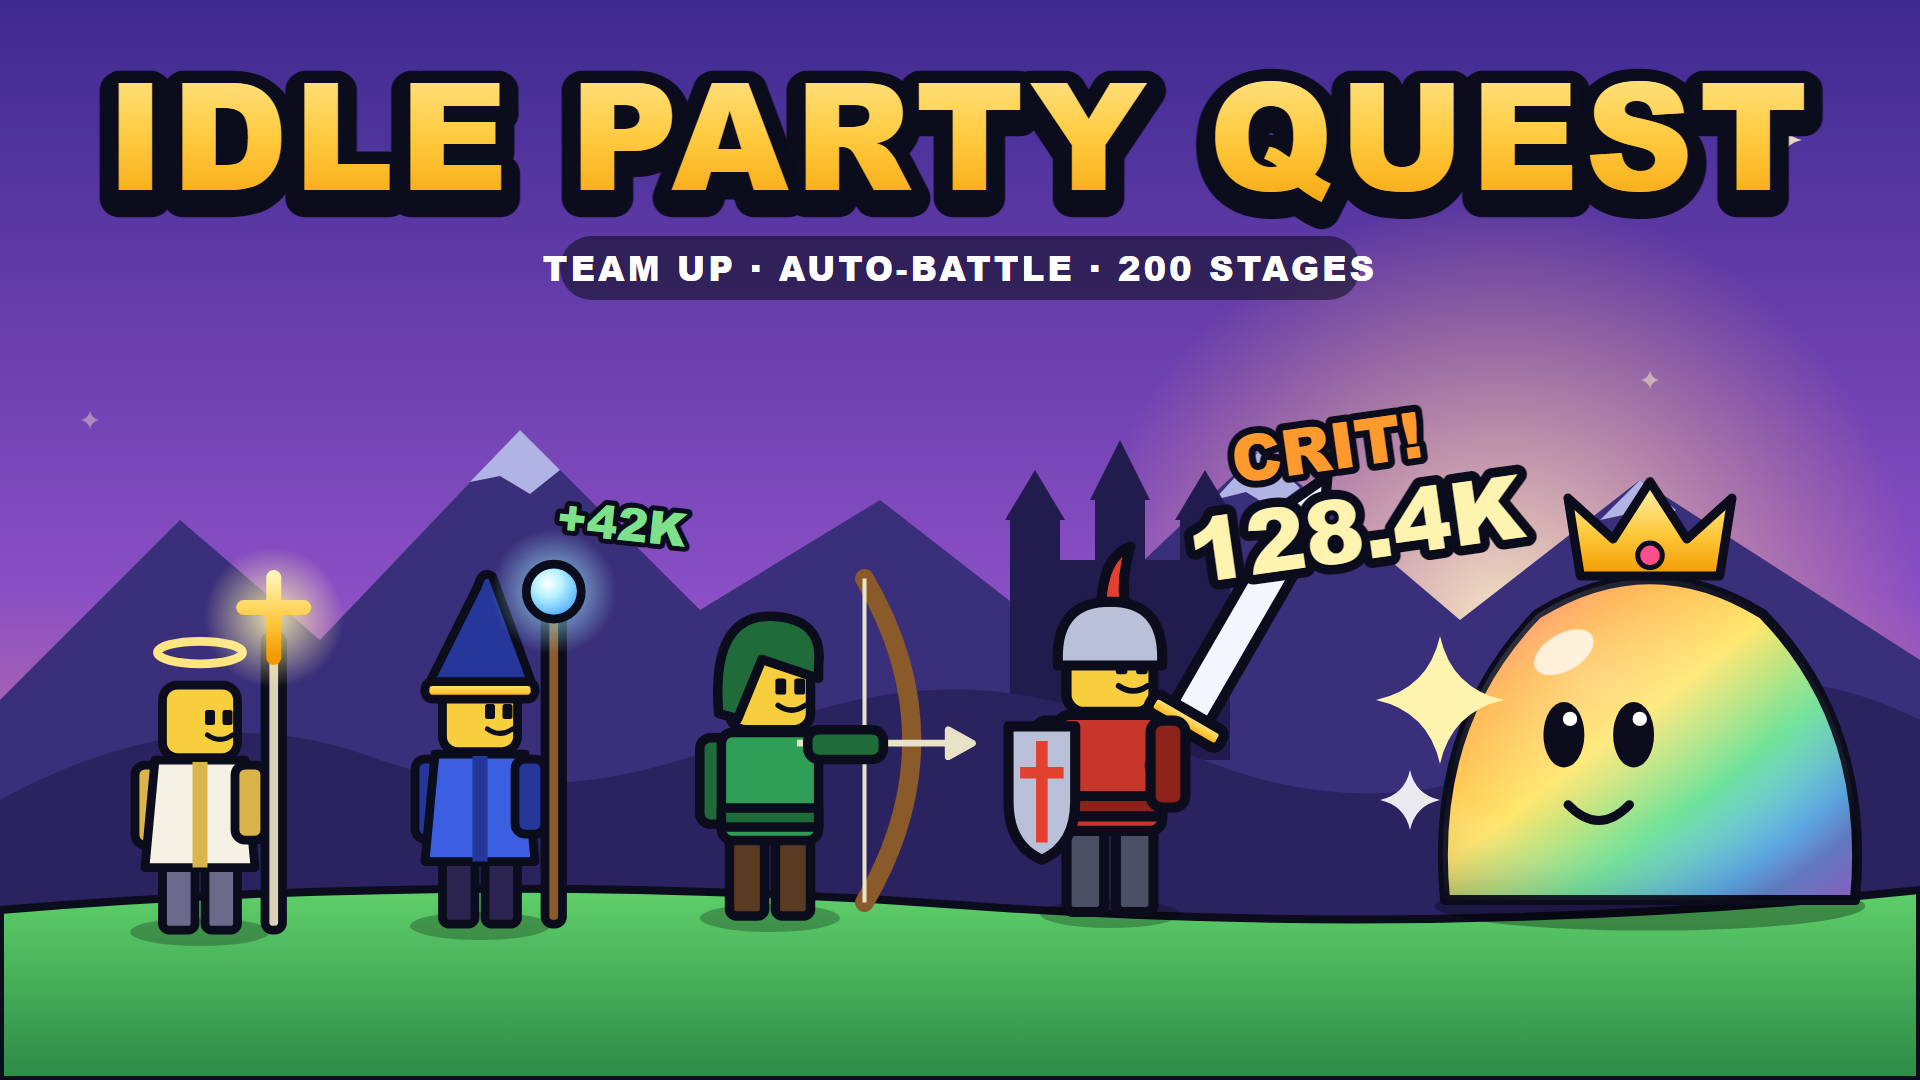
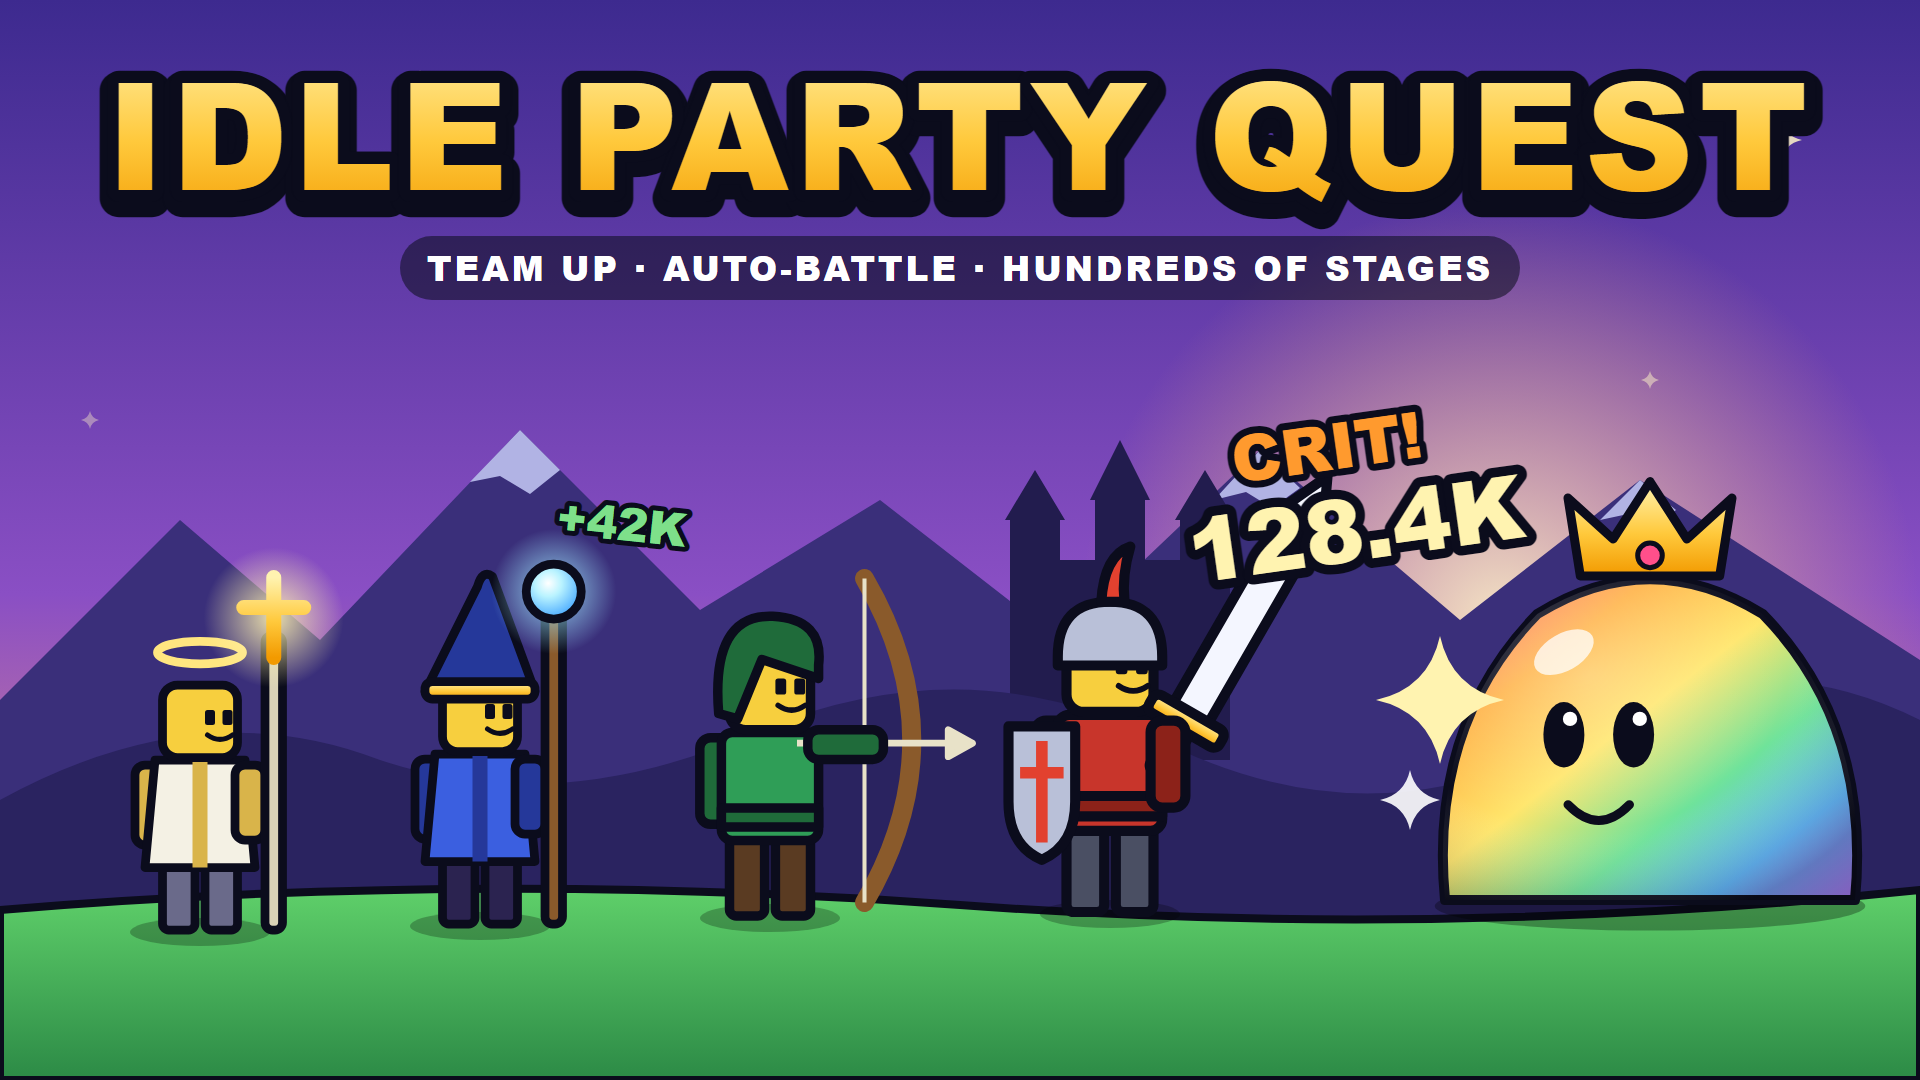
Branding: 'hundreds of stages' instead of '200 stages' (more stages may come with new seasons)

Changed region(s): [[0.1875, 0.2139, 0.8125, 0.275]]

diff --git a/branding/make_art.py b/branding/make_art.py
@@ -222,8 +222,8 @@ def thumbnail():
   {heroes}
   {fx}
   {title(960, 190, "IDLE PARTY QUEST", 150, 6)}
-  <g><rect x="560" y="236" width="800" height="64" rx="32" fill="{INK}" opacity="0.55"/>
-  <text x="960" y="281" text-anchor="middle" font-family="{FONT}" font-size="34" letter-spacing="3" fill="#ffffff">TEAM UP · AUTO-BATTLE · 200 STAGES</text></g>
+  <g><rect x="400" y="236" width="1120" height="64" rx="32" fill="{INK}" opacity="0.55"/>
+  <text x="960" y="281" text-anchor="middle" font-family="{FONT}" font-size="34" letter-spacing="3" fill="#ffffff">TEAM UP · AUTO-BATTLE · HUNDREDS OF STAGES</text></g>
 </svg>"""
 
 
@@ -295,8 +295,8 @@ def thumbnail_hype():
   {heroes}
   {arrow(1060, 420, 1290, 350)}
   {starburst(1700, 190, 150, 14, "url(#red)")}
-  {shout(1700, 205, "200", 84, "url(#gold)", rot=-10)}
-  {shout(1700, 262, "STAGES!", 46, rot=-10)}
+  {shout(1700, 200, "100s", 80, "url(#gold)", rot=-10)}
+  {shout(1700, 258, "OF STAGES!", 36, rot=-10)}
   {shout(560, 150, "GO AFK...", 120, "url(#white)", rot=-4)}
   {shout(600, 300, "GET OP!!", 150, "url(#gold)", rot=-4)}
   {pop(1600, 900, "999.9M", 70, "#fff3b0", -6)}
